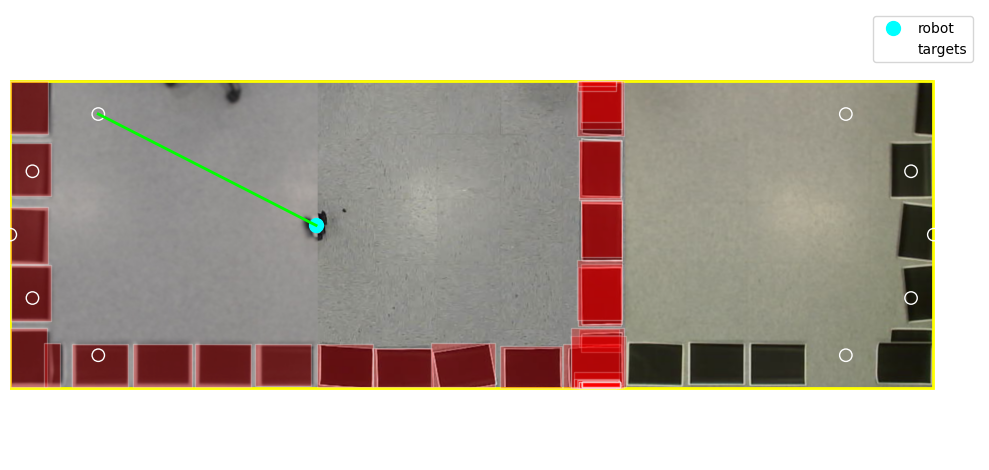
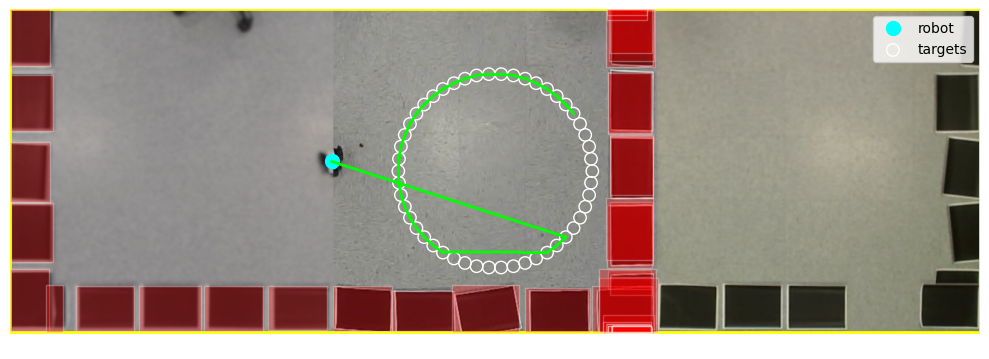
forward movement

diff --git a/arena_utils.py b/arena_utils.py
@@ -7,7 +7,8 @@ import time
 import numpy as np
 from PIL import Image, ImageTk
 
-SETTINGS_PATH = "Settings/arena_settings.json"
+SETTINGS_PATH = "Settings/settings.json"
+ARENA_SETTINGS_PATH = "Settings/arena_settings.json"
 
 def refresh_cameras(max_index=10, current_index=None):
     """
@@ -39,14 +40,14 @@ def load_arena_settings():
         "cells": {}
     }
 
-    if not os.path.exists(SETTINGS_PATH):
-        os.makedirs(os.path.dirname(SETTINGS_PATH), exist_ok=True)
-        with open(SETTINGS_PATH, "w") as f:
+    if not os.path.exists(ARENA_SETTINGS_PATH):
+        os.makedirs(os.path.dirname(ARENA_SETTINGS_PATH), exist_ok=True)
+        with open(ARENA_SETTINGS_PATH, "w") as f:
             json.dump(default_settings, f, indent=2)
         return default_settings
 
     try:
-        with open(SETTINGS_PATH, "r") as f:
+        with open(ARENA_SETTINGS_PATH, "r") as f:
             data = json.load(f)
             # Validate and merge with defaults
             settings = default_settings.copy()
@@ -181,10 +182,45 @@ def open_all_cameras(
 
     return caps
 
-def save_arena_settings(settings_dict):
-    os.makedirs(os.path.dirname(SETTINGS_PATH), exist_ok=True)
+def save_arena_settings(arena_settings):
+    # 1. Save the arena_settings.json
+    os.makedirs(os.path.dirname(ARENA_SETTINGS_PATH), exist_ok=True)
+    with open(ARENA_SETTINGS_PATH, "w") as f:
+        json.dump(arena_settings, f, indent=2)
+
+    # 2. Calculate total width and height
+    rows = arena_settings.get("rows", 0)
+    cols = arena_settings.get("cols", 0)
+    cells = arena_settings.get("cells", {})
+
+    # Width = sum of widths in a row minus overlaps between adjacent cells
+    total_width = 0
+    for c in range(cols):
+        key = f"0,{c}"
+        cell = cells.get(key, {})
+        total_width += cell.get("width", 0)
+
+    # Height = sum of heights in a column (no vertical overlap in your data)
+    total_height = 0
+    for r in range(rows):
+        key = f"{r},0"
+        cell = cells.get(key, {})
+        total_height += cell.get("height", 0)
+
+    # 3. Update settings.json
+    settings_data = {}
+    if os.path.exists(SETTINGS_PATH):
+        with open(SETTINGS_PATH, "r") as f:
+            try:
+                settings_data = json.load(f)
+            except json.JSONDecodeError:
+                pass
+
+    settings_data["arena_width"] = str(total_width)
+    settings_data["arena_height"] = str(total_height)
+
     with open(SETTINGS_PATH, "w") as f:
-        json.dump(settings_dict, f, indent=2)
+        json.dump(settings_data, f, indent=2)
 
 def safe_grab_set(window):
     def try_grab():

diff --git a/controller.py b/controller.py
@@ -241,16 +241,15 @@ class PIDController:
 
             ang_err = self.normalize(heading - theta)
             dir_mult = 1
-            if abs(ang_err) > math.pi/2:
-                ang_err = self.normalize(ang_err - math.pi)
-                dir_mult = -1
+            move_flag = 1 if (abs(math.degrees(ang_err)) <= self.ang_tolerance and abs(ang_err) < math.pi/2) else 0
+            # Uncomment for: Both forward and backward movement
+            # move_flag = 1 if abs(math.degrees(ang_err)) <= self.ang_tolerance else 0
+            # if abs(ang_err) > math.pi/2:
+            #     ang_err = self.normalize(ang_err - math.pi)
+            #     dir_mult = -1
 
             self.integral_ang += ang_err * dt
-            # if self.prev_ang_err==0:
-            #     deriv_ang=0
-            # else:
             deriv_ang = (ang_err - self.prev_ang_err) / dt
-            
             self.prev_ang_err = ang_err
 
             ang_ctrl = (
@@ -259,12 +258,10 @@ class PIDController:
                 self.Kd_ang * deriv_ang
             )
             lin_ctrl = max(-max_lin, min(max_lin, self.Kp_dist * dist_err))
-            move_flag = 1 if abs(math.degrees(ang_err)) <= self.ang_tolerance else 0
 
             left = base_speed + (move_flag * dir_mult * lin_ctrl) - ang_ctrl
             right = base_speed + (move_flag * dir_mult * lin_ctrl) + ang_ctrl
-            # if self.Kd_ang * deriv_ang !=0:
-            #     print(self.Kd_ang * deriv_ang)
+            
             left = max(70, min(110, self.adjust_speed(left)))
             right = max(70, min(110, self.adjust_speed(right)))
             #print("EXECUTING:::",tx, " ",ty, " COMMAND SENT: ",left," ,",right ,"P :",self.Kp_ang * ang_err , " D: ",(ang_err - self.prev_ang_err)  , " I: ", self.Ki_ang * self.integral_ang )
